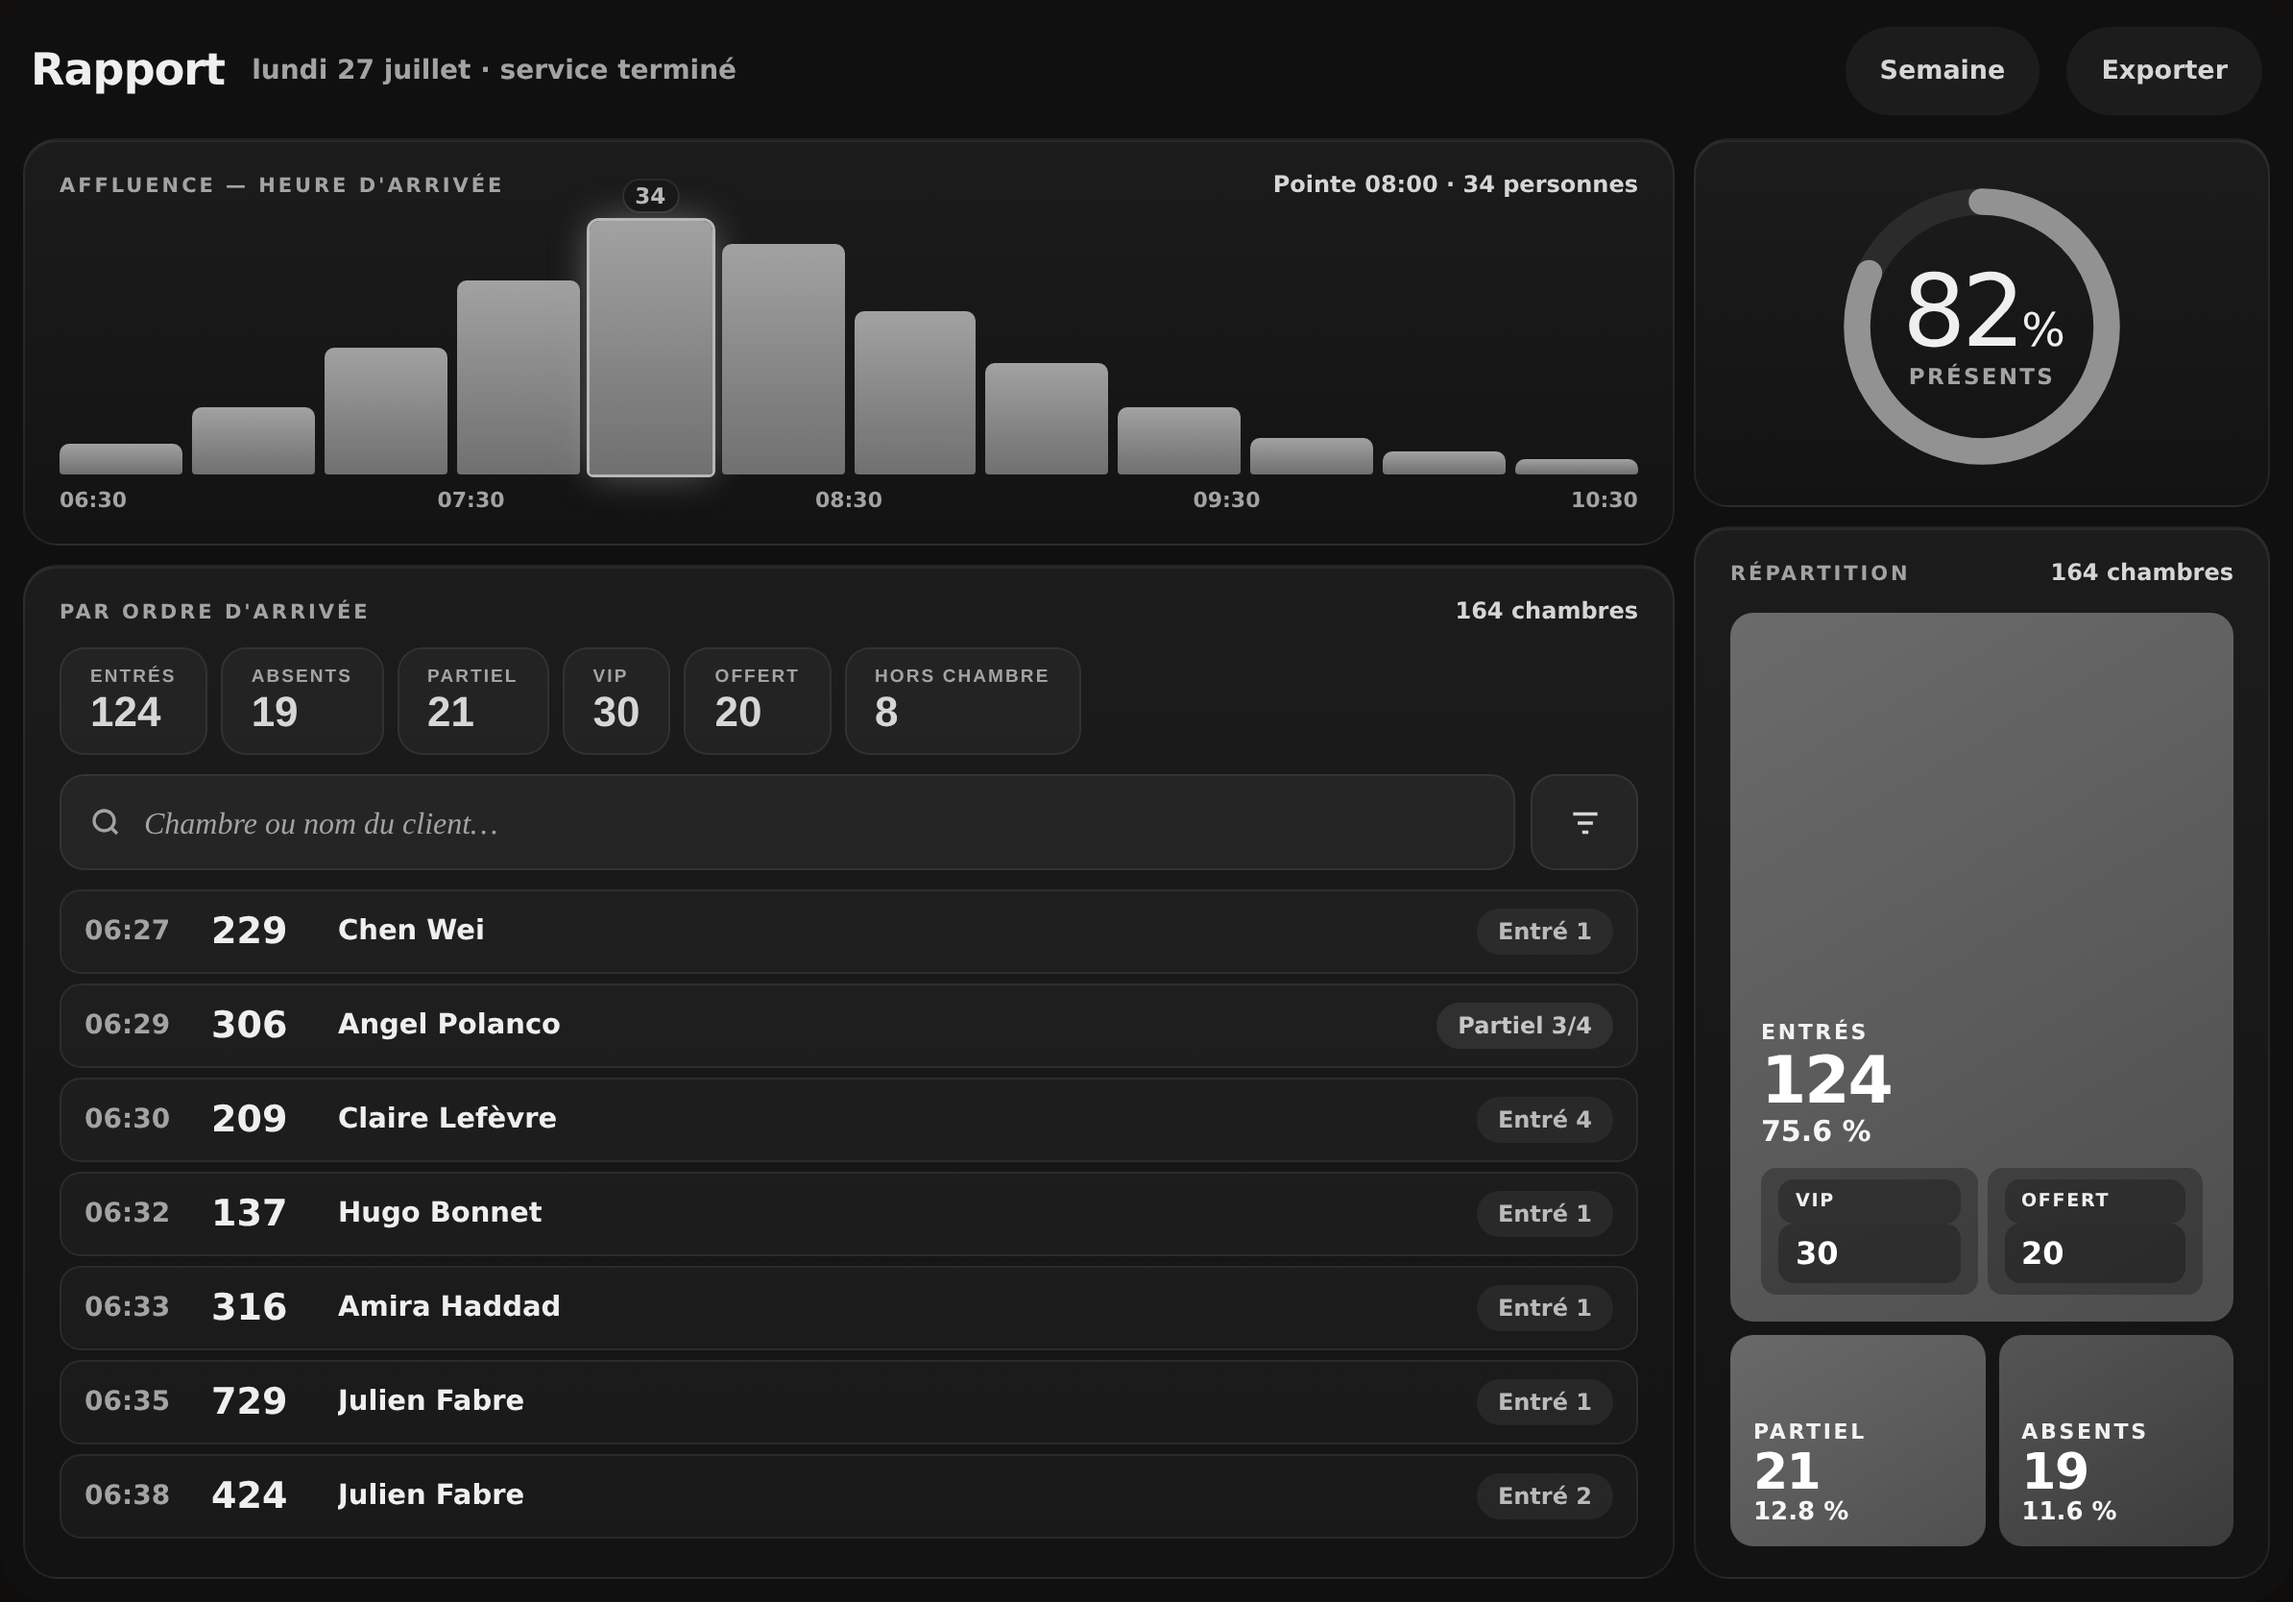
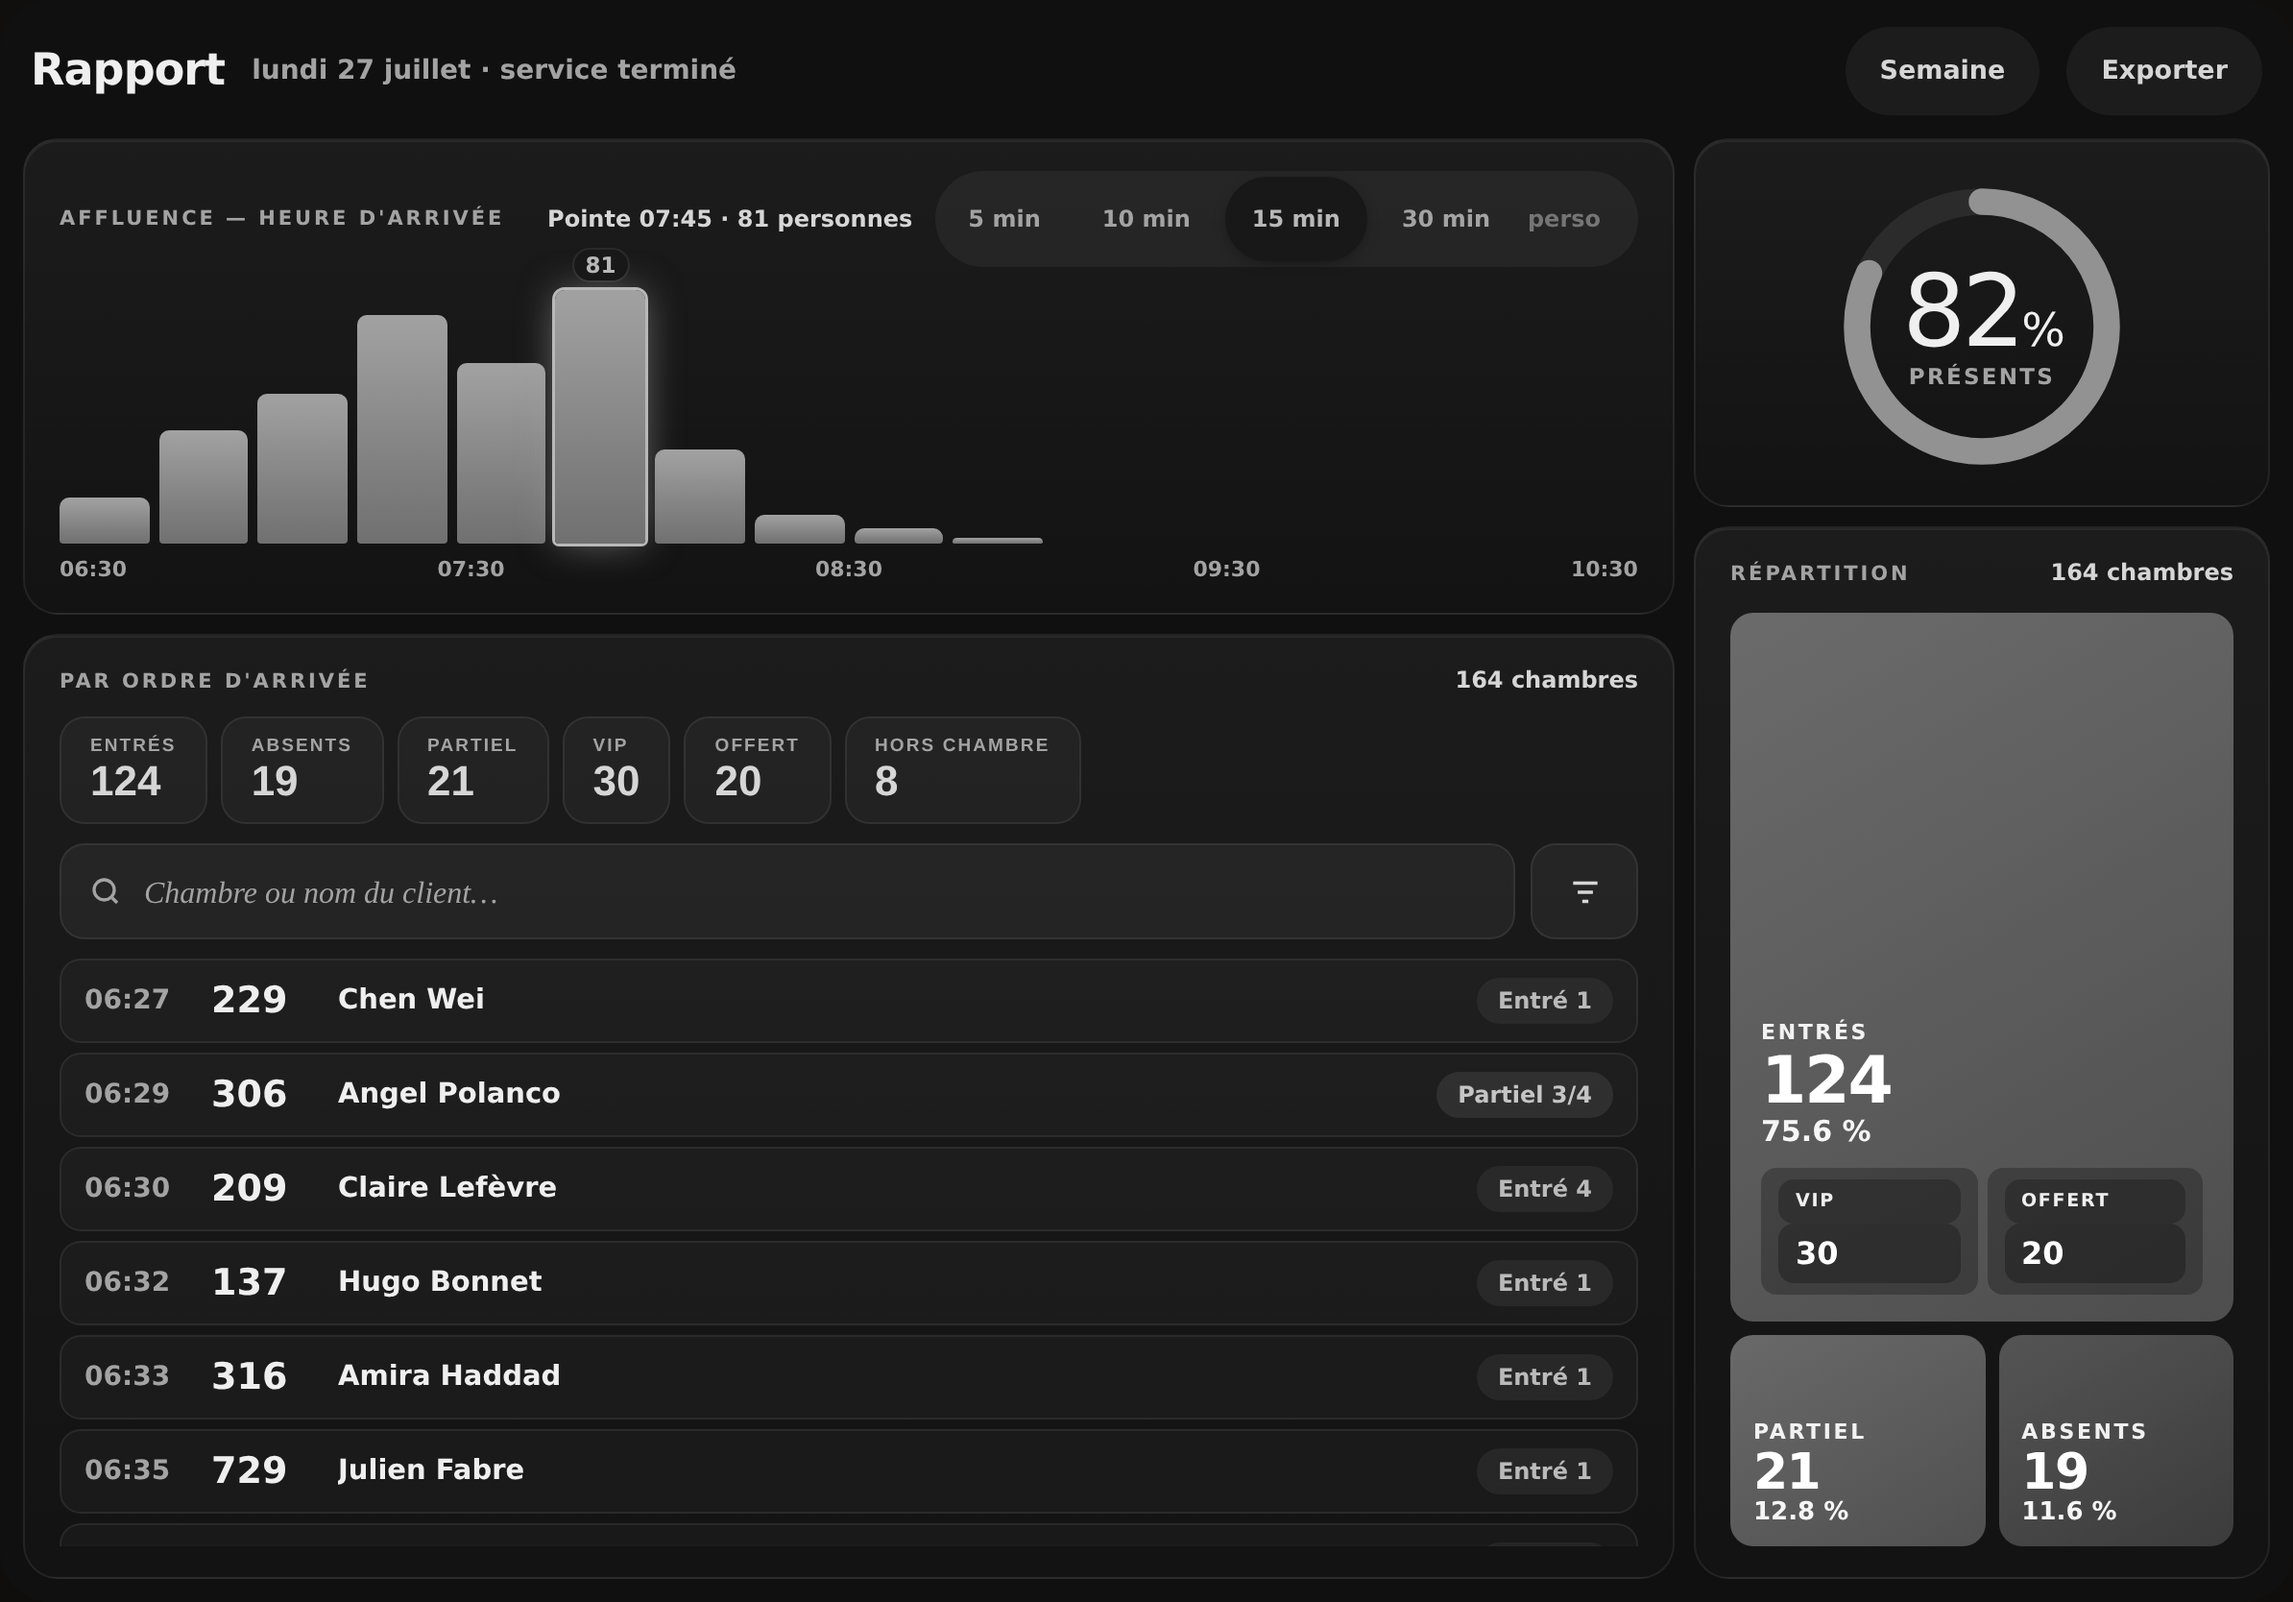
Report v2: selectable granularity on the affluence chart
5 / 10 / 15 / 30 minutes plus a custom field, re-bucketing the real
arrival times rather than swapping canned arrays. Bar gap tightens with
the count, and below roughly 8px per bar the peak annotation is dropped
because it would collide with its neighbours — the shape still reads.

The segmented control was 34px tall, which my own R8 rule forbids. Caught
by the checker, fixed to 44.

Claude-Session: https://claude.ai/code/session_01PvjN1yrwGssKpuvjG4vcfR

diff --git a/mockups/report-v2.html b/mockups/report-v2.html
@@ -49,6 +49,17 @@
   .right{width:300px;flex:none;display:flex;flex-direction:column;gap:10px}
 
   /* 1 · affluence */
+  .seg{display:flex;gap:4px;padding:3px;border-radius:999px;background:rgba(255,255,255,.05)}
+  body.light .seg{background:rgba(42,38,32,.06)}
+  .seg button{min-height:44px;padding:0 14px;border:none;border-radius:999px;cursor:pointer;
+    font:inherit;font-size:12px;font-weight:800;color:var(--muted);background:none;
+    font-variant-numeric:tabular-nums}
+  .seg button.on{background:var(--surface);color:var(--gold-ink);
+    box-shadow:0 2px 8px -3px rgba(0,0,0,.6)}
+  body.light .seg button.on{background:#fff;box-shadow:0 2px 8px -4px rgba(90,70,40,.4)}
+  .seg input{width:56px;min-height:44px;border:none;outline:none;border-radius:999px;
+    background:none;font:inherit;font-size:12px;font-weight:800;color:var(--gold-ink);
+    text-align:center;font-variant-numeric:tabular-nums}
   .peak{height:132px;display:flex;align-items:flex-end;gap:5px;margin-top:12px}
   .peak i{flex:1;border-radius:5px 5px 2px 2px;position:relative;
     background:linear-gradient(180deg,var(--gold),var(--gold-deep));font-style:normal}
@@ -169,7 +180,13 @@
     <div class="left">
       <!-- 1 · affluence -->
       <div class="pane">
-        <div class="cap"><span>Affluence — heure d'arrivée</span><b id="peaklab">Pointe 08:00 · 34 personnes</b></div>
+        <div class="cap" style="align-items:center">
+          <span>Affluence — heure d'arrivée</span>
+          <span style="display:flex;align-items:center;gap:12px">
+            <b id="peaklab">—</b>
+            <span class="seg" id="seg"></span>
+          </span>
+        </div>
         <div class="peak" id="peak"></div>
         <div class="axis"><span>06:30</span><span>07:30</span><span>08:30</span><span>09:30</span><span>10:30</span></div>
       </div>
@@ -240,12 +257,43 @@ const N = {in:ROOMS.filter(r=>r.st==="in").length, pa:ROOMS.filter(r=>r.st==="pa
            no:ROOMS.filter(r=>r.st==="no").length};
 const PCT = Math.round((N.in + N.pa*0.5) / ROOMS.length * 100);
 
-/* ── 1 · affluence ─────────────────────────────────────────────── */
-const BUCKETS = [4,9,17,26,34,31,22,15,9,5,3,2];
-const peakMax = Math.max(...BUCKETS);
-document.getElementById("peak").innerHTML = BUCKETS.map((v,i)=>
-  `<i class="${v===peakMax?"now":""}" style="height:${(v/peakMax*100).toFixed(1)}%">
-     ${v===peakMax?`<span>${v}</span>`:""}</i>`).join("");
+/* ── 1 · affluence, re-bucketed on demand ──────────────────────── */
+const OPEN = 390, CLOSE = 630;            // 06:30 → 10:30, in minutes
+const ARRIVALS = ROOMS.filter(r=>r.t).map(r=>{
+  const [h,m] = r.t.split(":").map(Number); return {min:h*60+m, pax:r.pax};
+});
+const GRAINS = [5,10,15,30];
+let grain = 15;
+
+const hhmm = (m)=>`${String(Math.floor(m/60)).padStart(2,"0")}:${String(m%60).padStart(2,"0")}`;
+
+function drawPeak(){
+  const n = Math.ceil((CLOSE-OPEN)/grain);
+  const b = new Array(n).fill(0);
+  for(const a of ARRIVALS){
+    const i = Math.floor((a.min-OPEN)/grain);
+    if(i>=0 && i<n) b[i] += a.pax;
+  }
+  const max = Math.max(1, ...b);
+  const peakI = b.indexOf(max);
+  // Below ~8px a bar is a hairline and the label would collide with its
+  // neighbours, so fine grains drop the annotation and keep the shape.
+  const wide = n <= 26;
+  document.getElementById("peak").innerHTML = b.map((v,i)=>
+    `<i class="${i===peakI?"now":""}" style="height:${(v/max*100).toFixed(1)}%"
+        title="${hhmm(OPEN+i*grain)} · ${v}">${i===peakI && wide?`<span>${v}</span>`:""}</i>`).join("");
+  document.getElementById("peak").style.gap = n > 30 ? "2px" : n > 18 ? "3px" : "5px";
+  document.getElementById("peaklab").textContent =
+    `Pointe ${hhmm(OPEN+peakI*grain)} · ${max} personnes`;
+  document.getElementById("seg").innerHTML =
+    GRAINS.map(g=>`<button class="${g===grain?"on":""}" onclick="setGrain(${g})">${g} min</button>`).join("")
+    + `<input id="cg" type="number" min="1" max="120" placeholder="perso"
+         value="${GRAINS.includes(grain)?"":grain}" title="Intervalle personnalisé (min)">`;
+  const ci = document.getElementById("cg");
+  ci.onchange = (e)=>{ const v = Math.max(1, Math.min(120, +e.target.value||15)); setGrain(v); };
+}
+window.setGrain = (g)=>{ grain = g; drawPeak(); };
+drawPeak();
 
 /* ── 2 · treemap ───────────────────────────────────────────────── */
 const T = ROOMS.length;
